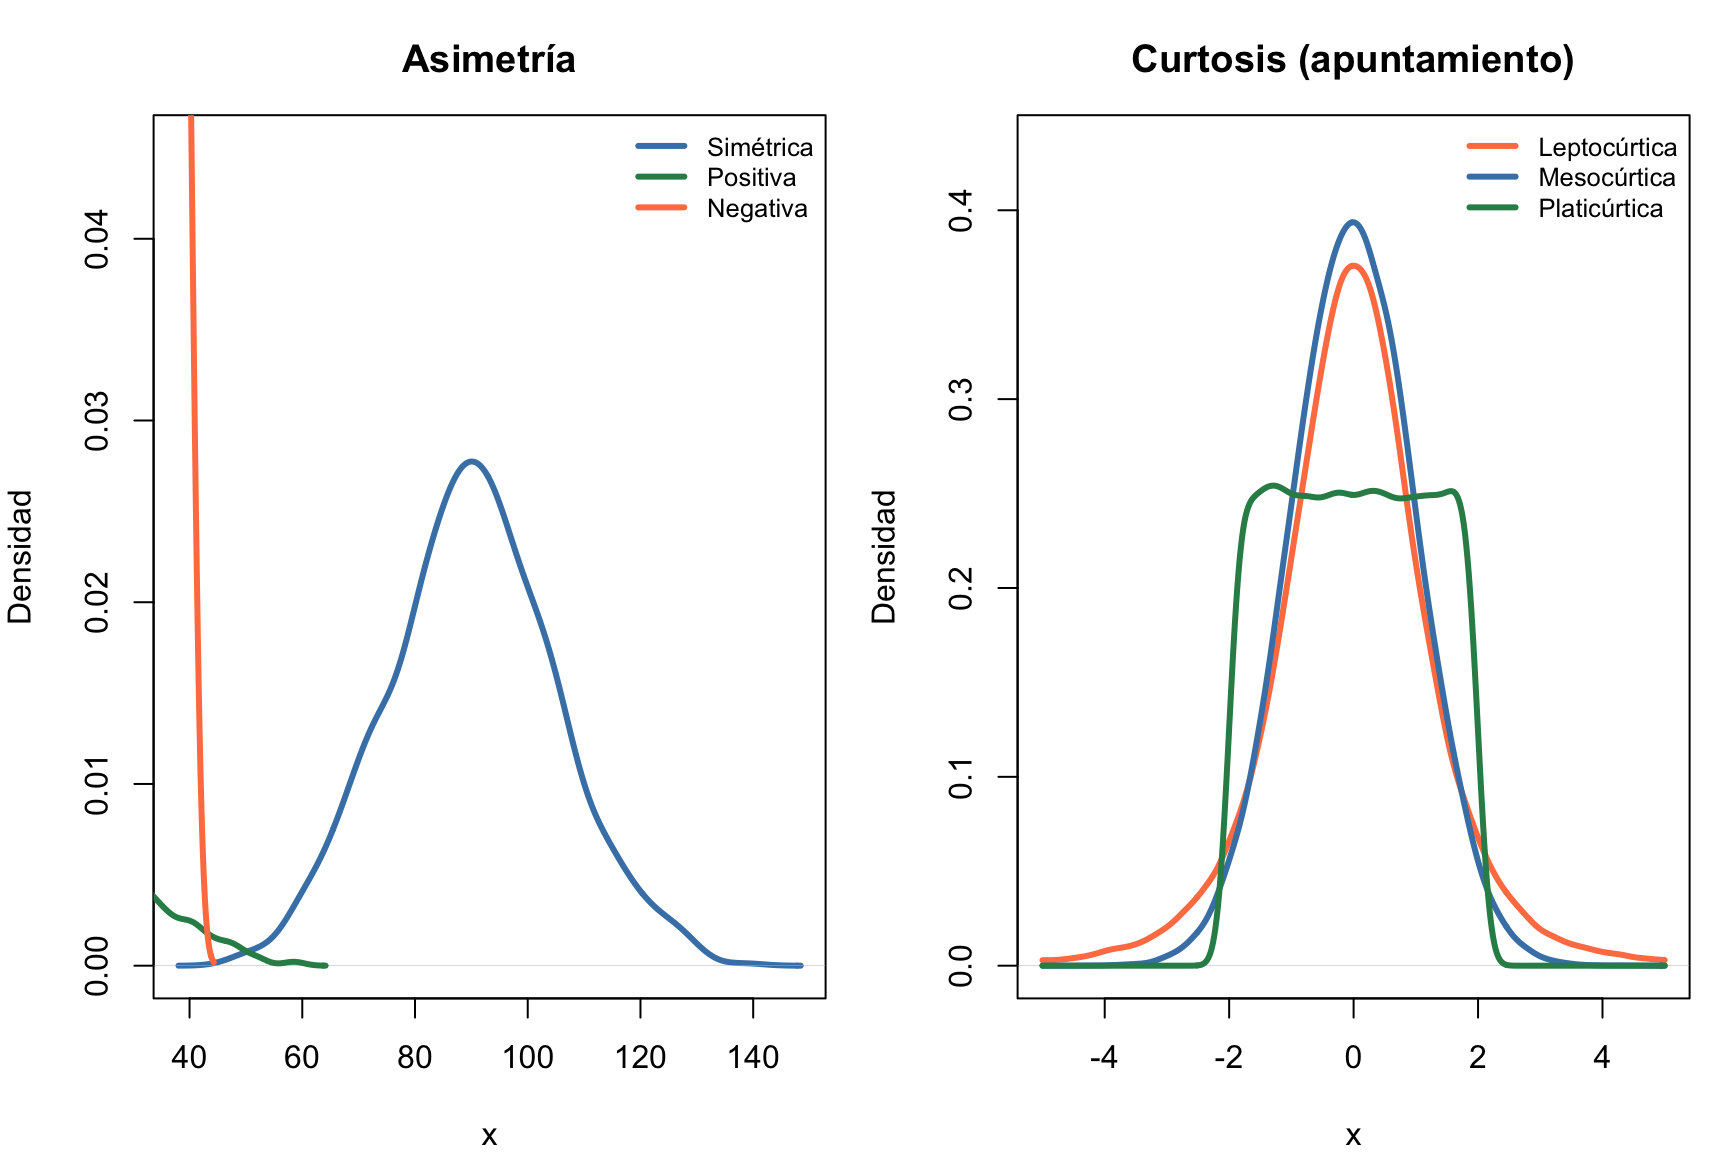
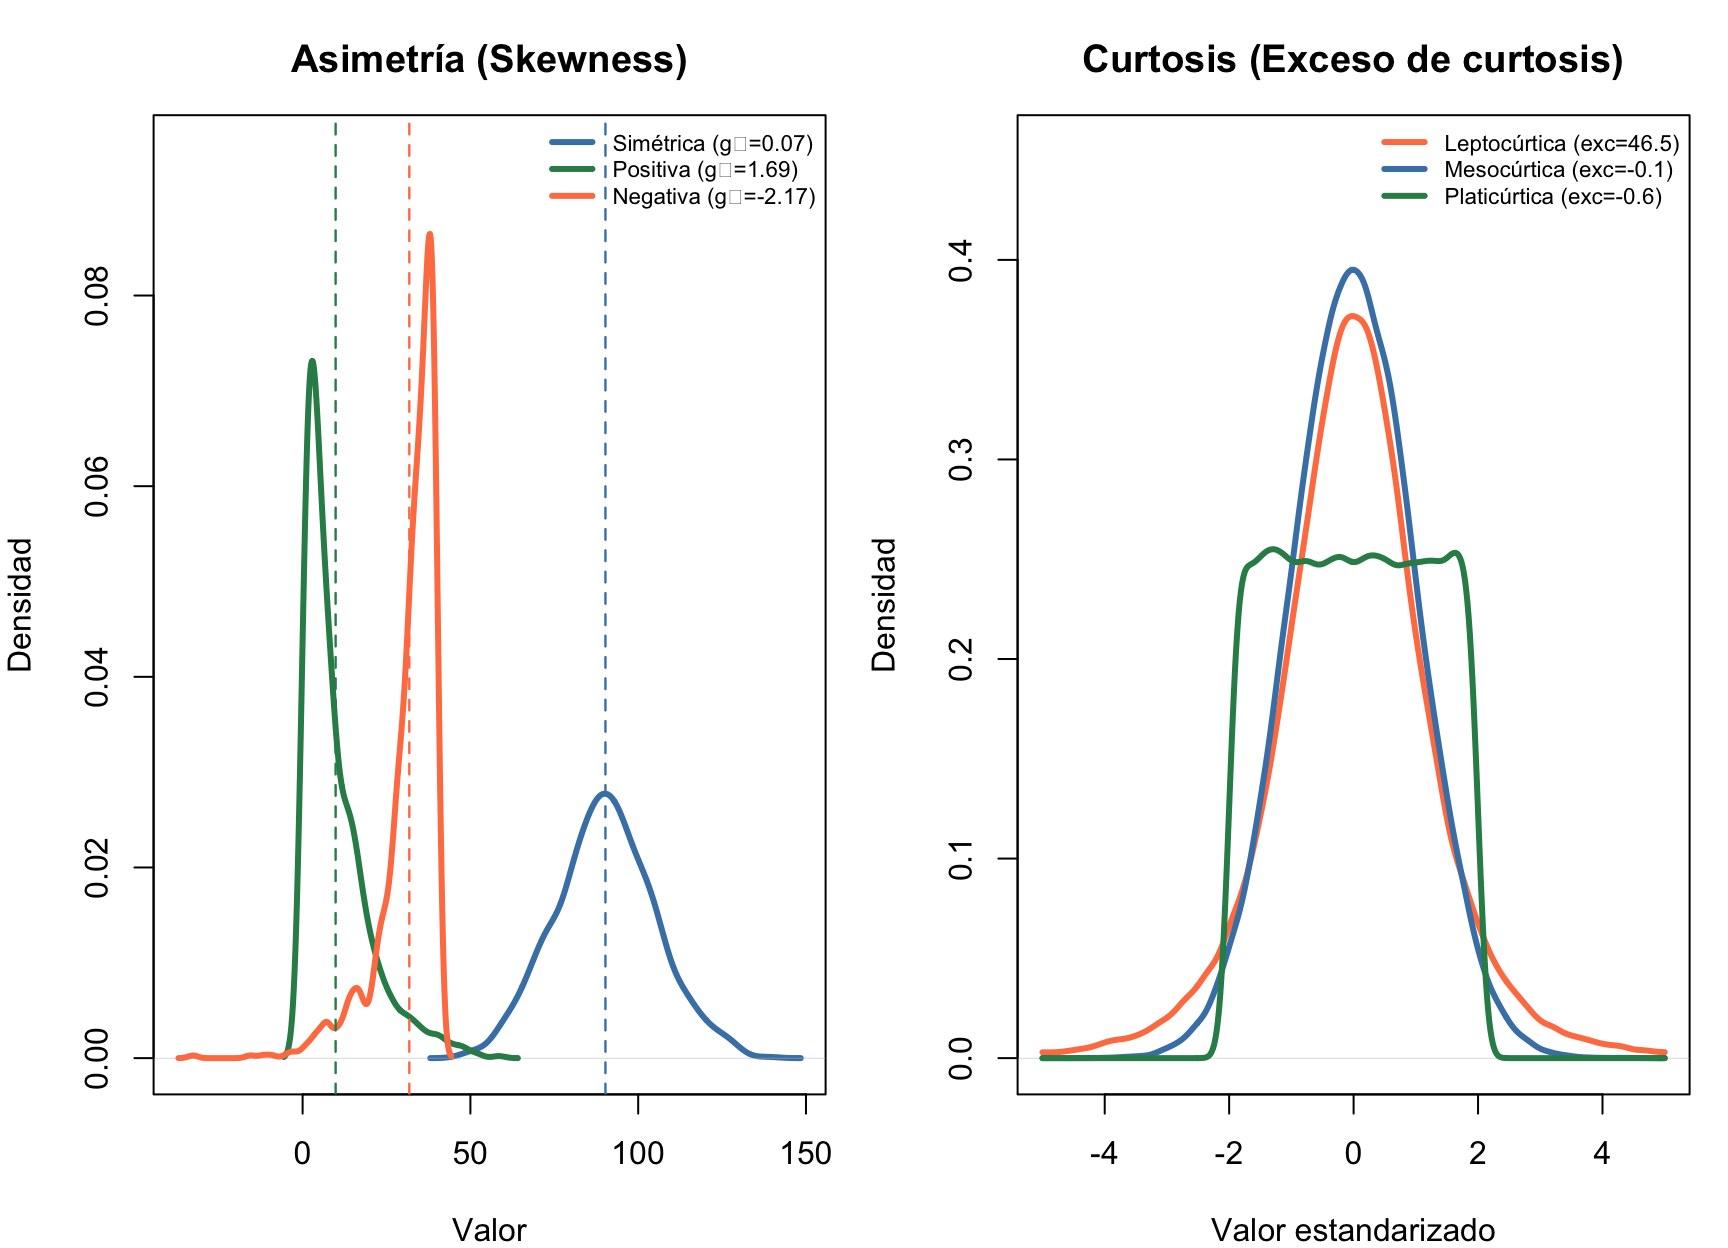
Update skewness & kurtosis chart with numeric values and improved layout

diff --git a/gh-pages-content/T01_II_Descriptiva.html b/gh-pages-content/T01_II_Descriptiva.html
@@ -1193,26 +1193,52 @@ RIQ = 9.25</code></pre>
 <div class="cell">
 <details class="code-fold">
 <summary>Mostrar código R</summary>
-<div class="code-copy-outer-scaffold"><div class="sourceCode cell-code" id="cb26"><pre class="sourceCode r code-with-copy"><code class="sourceCode r"><span id="cb26-1"><a aria-hidden="true" tabindex="-1"></a><span class="fu">par</span>(<span class="at">mfrow=</span><span class="fu">c</span>(<span class="dv">1</span>,<span class="dv">2</span>), <span class="at">mar=</span><span class="fu">c</span>(<span class="dv">4</span>,<span class="dv">4</span>,<span class="dv">3</span>,<span class="dv">1</span>))</span>
-<span id="cb26-2"><a aria-hidden="true" tabindex="-1"></a><span class="co"># Asimetría</span></span>
-<span id="cb26-3"><a aria-hidden="true" tabindex="-1"></a><span class="fu">set.seed</span>(<span class="dv">123</span>)</span>
-<span id="cb26-4"><a aria-hidden="true" tabindex="-1"></a>x_sym <span class="ot">&lt;-</span> <span class="fu">rnorm</span>(<span class="dv">1000</span>, <span class="dv">90</span>, <span class="dv">15</span>)</span>
-<span id="cb26-5"><a aria-hidden="true" tabindex="-1"></a>x_pos <span class="ot">&lt;-</span> <span class="fu">rexp</span>(<span class="dv">1000</span>, <span class="dv">1</span><span class="sc">/</span><span class="dv">10</span>)</span>
-<span id="cb26-6"><a aria-hidden="true" tabindex="-1"></a>x_neg <span class="ot">&lt;-</span> <span class="sc">-</span><span class="fu">rexp</span>(<span class="dv">1000</span>, <span class="dv">1</span><span class="sc">/</span><span class="dv">8</span>) <span class="sc">+</span> <span class="dv">40</span></span>
-<span id="cb26-7"><a aria-hidden="true" tabindex="-1"></a><span class="fu">plot</span>(<span class="fu">density</span>(x_sym), <span class="at">col=</span><span class="st">"steelblue"</span>, <span class="at">lwd=</span><span class="dv">3</span>, <span class="at">main=</span><span class="st">"Asimetría"</span>, <span class="at">xlab=</span><span class="st">"x"</span>, <span class="at">ylab=</span><span class="st">"Densidad"</span>, <span class="at">ylim=</span><span class="fu">c</span>(<span class="dv">0</span>,<span class="fl">0.045</span>))</span>
-<span id="cb26-8"><a aria-hidden="true" tabindex="-1"></a><span class="fu">lines</span>(<span class="fu">density</span>(x_pos), <span class="at">col=</span><span class="st">"seagreen"</span>, <span class="at">lwd=</span><span class="dv">3</span>)</span>
-<span id="cb26-9"><a aria-hidden="true" tabindex="-1"></a><span class="fu">lines</span>(<span class="fu">density</span>(x_neg), <span class="at">col=</span><span class="st">"coral"</span>, <span class="at">lwd=</span><span class="dv">3</span>)</span>
-<span id="cb26-10"><a aria-hidden="true" tabindex="-1"></a><span class="fu">legend</span>(<span class="st">"topright"</span>, <span class="fu">c</span>(<span class="st">"Simétrica"</span>,<span class="st">"Positiva"</span>,<span class="st">"Negativa"</span>), <span class="at">col=</span><span class="fu">c</span>(<span class="st">"steelblue"</span>,<span class="st">"seagreen"</span>,<span class="st">"coral"</span>), <span class="at">lwd=</span><span class="dv">3</span>, <span class="at">bty=</span><span class="st">"n"</span>, <span class="at">cex=</span><span class="fl">0.8</span>)</span>
-<span id="cb26-11"><a aria-hidden="true" tabindex="-1"></a></span>
-<span id="cb26-12"><a aria-hidden="true" tabindex="-1"></a><span class="co"># Curtosis</span></span>
-<span id="cb26-13"><a aria-hidden="true" tabindex="-1"></a>dx<span class="ot">&lt;-</span><span class="fu">density</span>(<span class="fu">rt</span>(<span class="dv">100000</span>,<span class="dv">4</span>),<span class="at">adjust=</span><span class="fl">1.5</span>,<span class="at">from=</span><span class="sc">-</span><span class="dv">5</span>,<span class="at">to=</span><span class="dv">5</span>)</span>
-<span id="cb26-14"><a aria-hidden="true" tabindex="-1"></a>dy<span class="ot">&lt;-</span><span class="fu">density</span>(<span class="fu">rnorm</span>(<span class="dv">100000</span>),<span class="at">adjust=</span><span class="fl">1.5</span>,<span class="at">from=</span><span class="sc">-</span><span class="dv">5</span>,<span class="at">to=</span><span class="dv">5</span>)</span>
-<span id="cb26-15"><a aria-hidden="true" tabindex="-1"></a>dz<span class="ot">&lt;-</span><span class="fu">density</span>(<span class="fu">runif</span>(<span class="dv">100000</span>,<span class="sc">-</span><span class="dv">2</span>,<span class="dv">2</span>),<span class="at">adjust=</span><span class="fl">1.5</span>,<span class="at">from=</span><span class="sc">-</span><span class="dv">5</span>,<span class="at">to=</span><span class="dv">5</span>)</span>
-<span id="cb26-16"><a aria-hidden="true" tabindex="-1"></a><span class="fu">plot</span>(dx,<span class="at">col=</span><span class="st">"coral"</span>,<span class="at">lwd=</span><span class="dv">3</span>,<span class="at">ylim=</span><span class="fu">c</span>(<span class="dv">0</span>,<span class="fu">max</span>(dx<span class="sc">$</span>y,dy<span class="sc">$</span>y,dz<span class="sc">$</span>y)<span class="sc">*</span><span class="fl">1.1</span>),</span>
-<span id="cb26-17"><a aria-hidden="true" tabindex="-1"></a>     <span class="at">main=</span><span class="st">"Curtosis (apuntamiento)"</span>,<span class="at">xlab=</span><span class="st">"x"</span>,<span class="at">ylab=</span><span class="st">"Densidad"</span>)</span>
-<span id="cb26-18"><a aria-hidden="true" tabindex="-1"></a><span class="fu">lines</span>(dy,<span class="at">col=</span><span class="st">"steelblue"</span>,<span class="at">lwd=</span><span class="dv">3</span>); <span class="fu">lines</span>(dz,<span class="at">col=</span><span class="st">"seagreen"</span>,<span class="at">lwd=</span><span class="dv">3</span>)</span>
-<span id="cb26-19"><a aria-hidden="true" tabindex="-1"></a><span class="fu">legend</span>(<span class="st">"topright"</span>,<span class="fu">c</span>(<span class="st">"Leptocúrtica"</span>,<span class="st">"Mesocúrtica"</span>,<span class="st">"Platicúrtica"</span>),</span>
-<span id="cb26-20"><a aria-hidden="true" tabindex="-1"></a>       <span class="at">col=</span><span class="fu">c</span>(<span class="st">"coral"</span>,<span class="st">"steelblue"</span>,<span class="st">"seagreen"</span>),<span class="at">lwd=</span><span class="dv">3</span>,<span class="at">bty=</span><span class="st">"n"</span>,<span class="at">cex=</span><span class="fl">0.8</span>)</span></code></pre></div><button title="Copiar al portapapeles" class="code-copy-button"><i class="bi"></i></button></div>
+<div class="code-copy-outer-scaffold"><div class="sourceCode cell-code" id="cb26"><pre class="sourceCode r code-with-copy"><code class="sourceCode r"><span id="cb26-1"><a aria-hidden="true" tabindex="-1"></a><span class="fu">par</span>(<span class="at">mfrow=</span><span class="fu">c</span>(<span class="dv">1</span>,<span class="dv">2</span>), <span class="at">mar=</span><span class="fu">c</span>(<span class="dv">4</span>,<span class="dv">4</span>,<span class="dv">3</span>,<span class="dv">1</span>), <span class="at">bg=</span><span class="st">"white"</span>)</span>
+<span id="cb26-2"><a aria-hidden="true" tabindex="-1"></a></span>
+<span id="cb26-3"><a aria-hidden="true" tabindex="-1"></a><span class="co"># ── Panel 1: Asimetría con valores numéricos ──</span></span>
+<span id="cb26-4"><a aria-hidden="true" tabindex="-1"></a><span class="fu">set.seed</span>(<span class="dv">123</span>)</span>
+<span id="cb26-5"><a aria-hidden="true" tabindex="-1"></a>x_sym <span class="ot">&lt;-</span> <span class="fu">rnorm</span>(<span class="dv">1000</span>, <span class="dv">90</span>, <span class="dv">15</span>)</span>
+<span id="cb26-6"><a aria-hidden="true" tabindex="-1"></a>x_pos <span class="ot">&lt;-</span> <span class="fu">rexp</span>(<span class="dv">1000</span>, <span class="at">rate=</span><span class="dv">1</span><span class="sc">/</span><span class="dv">10</span>)</span>
+<span id="cb26-7"><a aria-hidden="true" tabindex="-1"></a>x_neg <span class="ot">&lt;-</span> <span class="sc">-</span><span class="fu">rexp</span>(<span class="dv">1000</span>, <span class="at">rate=</span><span class="dv">1</span><span class="sc">/</span><span class="dv">8</span>) <span class="sc">+</span> <span class="dv">40</span></span>
+<span id="cb26-8"><a aria-hidden="true" tabindex="-1"></a><span class="co"># Calcular asimetría</span></span>
+<span id="cb26-9"><a aria-hidden="true" tabindex="-1"></a>g1_sym <span class="ot">&lt;-</span> <span class="fu">round</span>(<span class="fu">mean</span>((x_sym<span class="sc">-</span><span class="fu">mean</span>(x_sym))<span class="sc">^</span><span class="dv">3</span>)<span class="sc">/</span><span class="fu">sd</span>(x_sym)<span class="sc">^</span><span class="dv">3</span>, <span class="dv">2</span>)</span>
+<span id="cb26-10"><a aria-hidden="true" tabindex="-1"></a>g1_pos <span class="ot">&lt;-</span> <span class="fu">round</span>(<span class="fu">mean</span>((x_pos<span class="sc">-</span><span class="fu">mean</span>(x_pos))<span class="sc">^</span><span class="dv">3</span>)<span class="sc">/</span><span class="fu">sd</span>(x_pos)<span class="sc">^</span><span class="dv">3</span>, <span class="dv">2</span>)</span>
+<span id="cb26-11"><a aria-hidden="true" tabindex="-1"></a>g1_neg <span class="ot">&lt;-</span> <span class="fu">round</span>(<span class="fu">mean</span>((x_neg<span class="sc">-</span><span class="fu">mean</span>(x_neg))<span class="sc">^</span><span class="dv">3</span>)<span class="sc">/</span><span class="fu">sd</span>(x_neg)<span class="sc">^</span><span class="dv">3</span>, <span class="dv">2</span>)</span>
+<span id="cb26-12"><a aria-hidden="true" tabindex="-1"></a></span>
+<span id="cb26-13"><a aria-hidden="true" tabindex="-1"></a>xlim_asim <span class="ot">&lt;-</span> <span class="fu">range</span>(<span class="fu">density</span>(x_sym)<span class="sc">$</span>x, <span class="fu">density</span>(x_pos)<span class="sc">$</span>x, <span class="fu">density</span>(x_neg)<span class="sc">$</span>x)</span>
+<span id="cb26-14"><a aria-hidden="true" tabindex="-1"></a>ylim_asim <span class="ot">&lt;-</span> <span class="fu">range</span>(<span class="fu">density</span>(x_sym)<span class="sc">$</span>y, <span class="fu">density</span>(x_pos)<span class="sc">$</span>y, <span class="fu">density</span>(x_neg)<span class="sc">$</span>y)</span>
+<span id="cb26-15"><a aria-hidden="true" tabindex="-1"></a><span class="fu">plot</span>(<span class="fu">density</span>(x_sym), <span class="at">col=</span><span class="st">"steelblue"</span>, <span class="at">lwd=</span><span class="dv">3</span>, <span class="at">main=</span><span class="st">"Asimetría (Skewness)"</span>, </span>
+<span id="cb26-16"><a aria-hidden="true" tabindex="-1"></a>     <span class="at">xlab=</span><span class="st">"Valor"</span>, <span class="at">ylab=</span><span class="st">"Densidad"</span>, <span class="at">xlim=</span>xlim_asim, <span class="at">ylim=</span><span class="fu">c</span>(<span class="dv">0</span>, ylim_asim[<span class="dv">2</span>]<span class="sc">*</span><span class="fl">1.1</span>))</span>
+<span id="cb26-17"><a aria-hidden="true" tabindex="-1"></a><span class="fu">lines</span>(<span class="fu">density</span>(x_pos), <span class="at">col=</span><span class="st">"seagreen"</span>, <span class="at">lwd=</span><span class="dv">3</span>)</span>
+<span id="cb26-18"><a aria-hidden="true" tabindex="-1"></a><span class="fu">lines</span>(<span class="fu">density</span>(x_neg), <span class="at">col=</span><span class="st">"coral"</span>, <span class="at">lwd=</span><span class="dv">3</span>)</span>
+<span id="cb26-19"><a aria-hidden="true" tabindex="-1"></a><span class="co"># Añadir medias como referencia</span></span>
+<span id="cb26-20"><a aria-hidden="true" tabindex="-1"></a><span class="fu">abline</span>(<span class="at">v=</span><span class="fu">mean</span>(x_sym), <span class="at">col=</span><span class="st">"steelblue"</span>, <span class="at">lty=</span><span class="dv">2</span>, <span class="at">lwd=</span><span class="fl">1.2</span>)</span>
+<span id="cb26-21"><a aria-hidden="true" tabindex="-1"></a><span class="fu">abline</span>(<span class="at">v=</span><span class="fu">mean</span>(x_pos), <span class="at">col=</span><span class="st">"seagreen"</span>, <span class="at">lty=</span><span class="dv">2</span>, <span class="at">lwd=</span><span class="fl">1.2</span>)</span>
+<span id="cb26-22"><a aria-hidden="true" tabindex="-1"></a><span class="fu">abline</span>(<span class="at">v=</span><span class="fu">mean</span>(x_neg), <span class="at">col=</span><span class="st">"coral"</span>, <span class="at">lty=</span><span class="dv">2</span>, <span class="at">lwd=</span><span class="fl">1.2</span>)</span>
+<span id="cb26-23"><a aria-hidden="true" tabindex="-1"></a><span class="fu">legend</span>(<span class="st">"topright"</span>, </span>
+<span id="cb26-24"><a aria-hidden="true" tabindex="-1"></a>       <span class="fu">c</span>(<span class="fu">paste0</span>(<span class="st">"Simétrica (g₁="</span>,g1_sym,<span class="st">")"</span>),</span>
+<span id="cb26-25"><a aria-hidden="true" tabindex="-1"></a>         <span class="fu">paste0</span>(<span class="st">"Positiva (g₁="</span>,g1_pos,<span class="st">")"</span>),</span>
+<span id="cb26-26"><a aria-hidden="true" tabindex="-1"></a>         <span class="fu">paste0</span>(<span class="st">"Negativa (g₁="</span>,g1_neg,<span class="st">")"</span>)),</span>
+<span id="cb26-27"><a aria-hidden="true" tabindex="-1"></a>       <span class="at">col=</span><span class="fu">c</span>(<span class="st">"steelblue"</span>,<span class="st">"seagreen"</span>,<span class="st">"coral"</span>), <span class="at">lwd=</span><span class="dv">3</span>, <span class="at">bty=</span><span class="st">"n"</span>, <span class="at">cex=</span><span class="fl">0.7</span>)</span>
+<span id="cb26-28"><a aria-hidden="true" tabindex="-1"></a></span>
+<span id="cb26-29"><a aria-hidden="true" tabindex="-1"></a><span class="co"># ── Panel 2: Curtosis con valores numéricos ──</span></span>
+<span id="cb26-30"><a aria-hidden="true" tabindex="-1"></a>dx <span class="ot">&lt;-</span> <span class="fu">density</span>(<span class="fu">rt</span>(<span class="dv">100000</span>, <span class="dv">4</span>), <span class="at">adjust=</span><span class="fl">1.2</span>, <span class="at">from=</span><span class="sc">-</span><span class="dv">5</span>, <span class="at">to=</span><span class="dv">5</span>)</span>
+<span id="cb26-31"><a aria-hidden="true" tabindex="-1"></a>dy <span class="ot">&lt;-</span> <span class="fu">density</span>(<span class="fu">rnorm</span>(<span class="dv">100000</span>), <span class="at">adjust=</span><span class="fl">1.2</span>, <span class="at">from=</span><span class="sc">-</span><span class="dv">5</span>, <span class="at">to=</span><span class="dv">5</span>)</span>
+<span id="cb26-32"><a aria-hidden="true" tabindex="-1"></a>dz <span class="ot">&lt;-</span> <span class="fu">density</span>(<span class="fu">runif</span>(<span class="dv">100000</span>, <span class="sc">-</span><span class="dv">2</span>, <span class="dv">2</span>), <span class="at">adjust=</span><span class="fl">1.2</span>, <span class="at">from=</span><span class="sc">-</span><span class="dv">5</span>, <span class="at">to=</span><span class="dv">5</span>)</span>
+<span id="cb26-33"><a aria-hidden="true" tabindex="-1"></a><span class="co"># Calcular exceso de curtosis</span></span>
+<span id="cb26-34"><a aria-hidden="true" tabindex="-1"></a>g2_lepto <span class="ot">&lt;-</span> <span class="fu">round</span>(<span class="fu">mean</span>((<span class="fu">rt</span>(<span class="dv">100000</span>,<span class="dv">4</span>)<span class="sc">-</span><span class="dv">0</span>)<span class="sc">^</span><span class="dv">4</span>)<span class="sc">/</span><span class="dv">1</span><span class="sc">^</span><span class="dv">4</span> <span class="sc">-</span> <span class="dv">3</span>, <span class="dv">1</span>)</span>
+<span id="cb26-35"><a aria-hidden="true" tabindex="-1"></a>g2_meso  <span class="ot">&lt;-</span> <span class="fu">round</span>(<span class="fu">mean</span>((<span class="fu">rnorm</span>(<span class="dv">100000</span>,<span class="dv">0</span>,<span class="dv">1</span>)<span class="sc">-</span><span class="dv">0</span>)<span class="sc">^</span><span class="dv">4</span>)<span class="sc">/</span><span class="dv">1</span><span class="sc">^</span><span class="dv">4</span> <span class="sc">-</span> <span class="dv">3</span>, <span class="dv">1</span>)</span>
+<span id="cb26-36"><a aria-hidden="true" tabindex="-1"></a>g2_plati <span class="ot">&lt;-</span> <span class="fu">round</span>(<span class="fu">mean</span>((<span class="fu">runif</span>(<span class="dv">100000</span>,<span class="sc">-</span><span class="dv">2</span>,<span class="dv">2</span>)<span class="sc">-</span><span class="dv">0</span>)<span class="sc">^</span><span class="dv">4</span>)<span class="sc">/</span>((<span class="dv">2</span><span class="sc">-</span>(<span class="sc">-</span><span class="dv">2</span>))<span class="sc">^</span><span class="dv">2</span><span class="sc">/</span><span class="dv">12</span>) <span class="sc">-</span> <span class="dv">3</span>, <span class="dv">1</span>)</span>
+<span id="cb26-37"><a aria-hidden="true" tabindex="-1"></a></span>
+<span id="cb26-38"><a aria-hidden="true" tabindex="-1"></a><span class="fu">plot</span>(dx, <span class="at">col=</span><span class="st">"coral"</span>, <span class="at">lwd=</span><span class="dv">3</span>, <span class="at">ylim=</span><span class="fu">c</span>(<span class="dv">0</span>, <span class="fu">max</span>(dx<span class="sc">$</span>y,dy<span class="sc">$</span>y,dz<span class="sc">$</span>y)<span class="sc">*</span><span class="fl">1.15</span>),</span>
+<span id="cb26-39"><a aria-hidden="true" tabindex="-1"></a>     <span class="at">main=</span><span class="st">"Curtosis (Exceso de curtosis)"</span>, <span class="at">xlab=</span><span class="st">"Valor estandarizado"</span>, <span class="at">ylab=</span><span class="st">"Densidad"</span>)</span>
+<span id="cb26-40"><a aria-hidden="true" tabindex="-1"></a><span class="fu">lines</span>(dy, <span class="at">col=</span><span class="st">"steelblue"</span>, <span class="at">lwd=</span><span class="dv">3</span>)</span>
+<span id="cb26-41"><a aria-hidden="true" tabindex="-1"></a><span class="fu">lines</span>(dz, <span class="at">col=</span><span class="st">"seagreen"</span>, <span class="at">lwd=</span><span class="dv">3</span>)</span>
+<span id="cb26-42"><a aria-hidden="true" tabindex="-1"></a><span class="fu">legend</span>(<span class="st">"topright"</span>,</span>
+<span id="cb26-43"><a aria-hidden="true" tabindex="-1"></a>       <span class="fu">c</span>(<span class="fu">paste0</span>(<span class="st">"Leptocúrtica (exc="</span>, g2_lepto, <span class="st">")"</span>),</span>
+<span id="cb26-44"><a aria-hidden="true" tabindex="-1"></a>         <span class="fu">paste0</span>(<span class="st">"Mesocúrtica (exc="</span>, g2_meso, <span class="st">")"</span>),</span>
+<span id="cb26-45"><a aria-hidden="true" tabindex="-1"></a>         <span class="fu">paste0</span>(<span class="st">"Platicúrtica (exc="</span>, g2_plati, <span class="st">")"</span>)),</span>
+<span id="cb26-46"><a aria-hidden="true" tabindex="-1"></a>       <span class="at">col=</span><span class="fu">c</span>(<span class="st">"coral"</span>,<span class="st">"steelblue"</span>,<span class="st">"seagreen"</span>), <span class="at">lwd=</span><span class="dv">3</span>, <span class="at">bty=</span><span class="st">"n"</span>, <span class="at">cex=</span><span class="fl">0.7</span>)</span></code></pre></div><button title="Copiar al portapapeles" class="code-copy-button"><i class="bi"></i></button></div>
 </details>
 
 <details class="code-fold">
